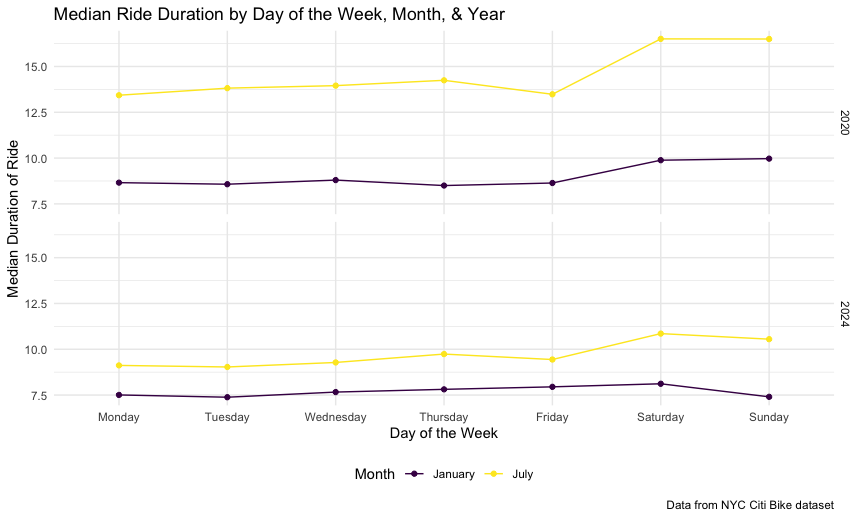
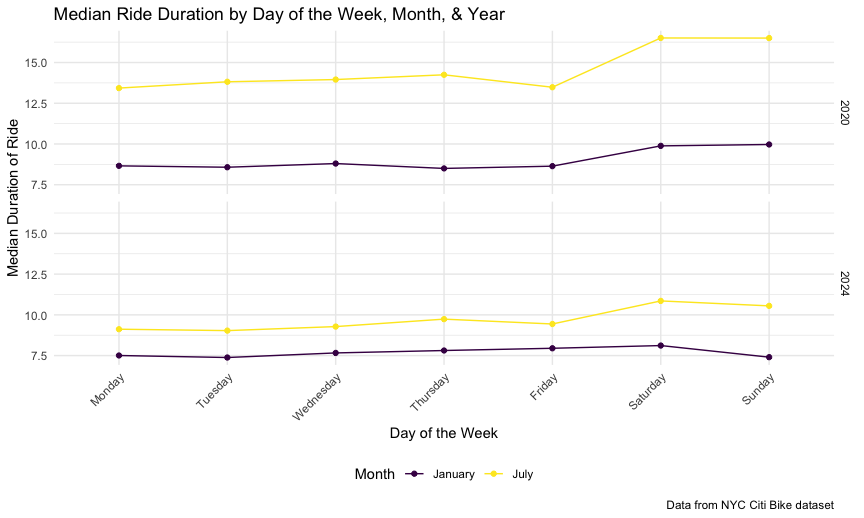
done

diff --git a/p8105_hw3_stt2133.md b/p8105_hw3_stt2133.md
@@ -416,9 +416,7 @@ citi |>
 | W 31 St & 7 Ave          |   146 |
 | West St & Chambers St    |   150 |
 
-## 3.5. Effects of `week_day`, `month`, & `year` on `median_duration`
-
-### 3.5.1. Plot
+## 3.5. Effects of `weekday`, `month`, & `year` on `median_duration`
 
 ``` r
 citi |>
@@ -433,34 +431,22 @@ citi |>
     x = "Day of the Week",
     y = "Median Duration of Ride",
     color = "Month",
-    caption = "Data from NYC Citi Bike dataset")
+    caption = "Data from NYC Citi Bike dataset") +
+    theme(axis.text.x = element_text(angle = 45, hjust = 1))
 ```
 
 <img src="p8105_hw3_stt2133_files/figure-gfm/median-duration-1.png" alt="" width="90%" />
 
-### 3.5.2. Comments
-
-The plot allows us to investigate the effects of day of the week, month,
-and year on median ride duration. In `January` of `2024`,
-`median_duration` was quite relatively consistent throughout the weak,
-albeit trending upwards from a low of just under `7.5` minutes on
-`Tuesday` to a high of ~`8` minutes on `Saturday`. On the other hand, in
-`July` of `2020`, we see a marked difference in `median_duration` across
-the week, from ~`13` minutes on `Friday` all the way to over `16`
-minutes over the weekend days of `Saturday` and `Sunday`. That same
-trend can be appreciated to less exaggerated degree in the other two
-combinations of `month` and `year`, namely `January` of `2020` and
-`July` of `2024`, with noticeably higher `median_duration` of rides on
-`Saturday` and `Sunday`. As alluded to previously, `July` of `2020` saw
-the highest `median_duration` values across the week, while `January` of
-`2024` saw the lowest. This leads me to mentioning a clear pattern in
-`median_duration` of rides in `January` vs `July`. Median duration of
-rides was higher in `July` than `January`, particularly over the
-weekends, as mentioned.
+Median ride duration was longer in July than in January in both years,
+and longer on weekends (Saturday and Sunday) than on weekdays. The
+weekend increase was largest in July 2020, when median rides went from
+about 13-14 minutes on weekdays to about 16.5 minutes on weekends. Rides
+were also longer in 2020 than in 2024, especially in July: median
+durations in July 2024 were only about 9-11 minutes. In January 2024,
+median duration was nearly constant across the week at about 7.5-8
+minutes.
 
 ## 3.6. Impact of `month`, `member_status`, & `bike_type` on `duration` Distribution
-
-### 3.6.1. Plot
 
 ``` r
 citi |>
@@ -478,8 +464,6 @@ citi |>
 ```
 
 <img src="p8105_hw3_stt2133_files/figure-gfm/unnamed-chunk-1-1.png" alt="" width="90%" />
-
-### 3.6.2. Comments
 
 Based on the density plots, the most stark difference is the
 distributions of ride `duration` between the two categories of
